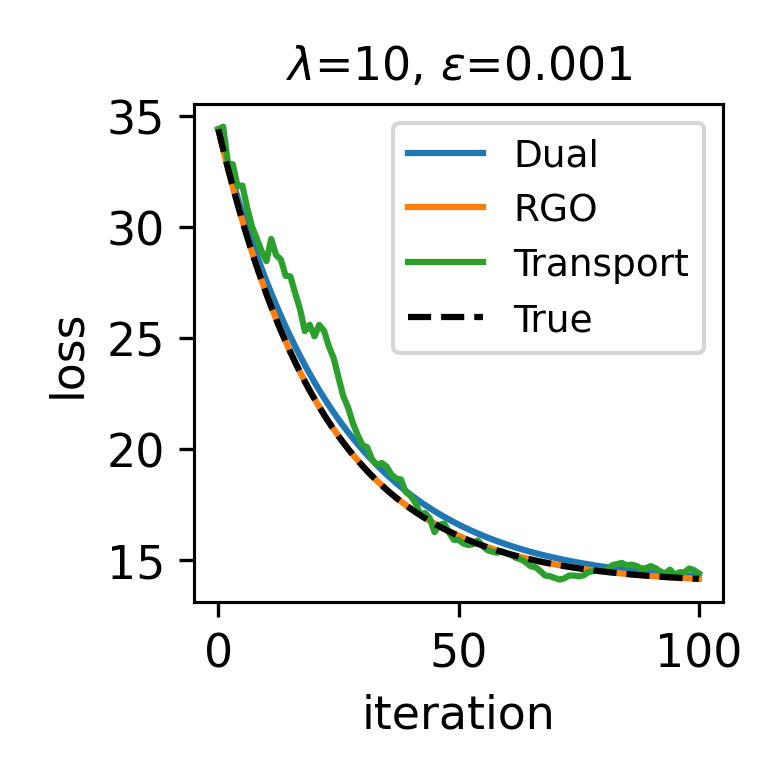
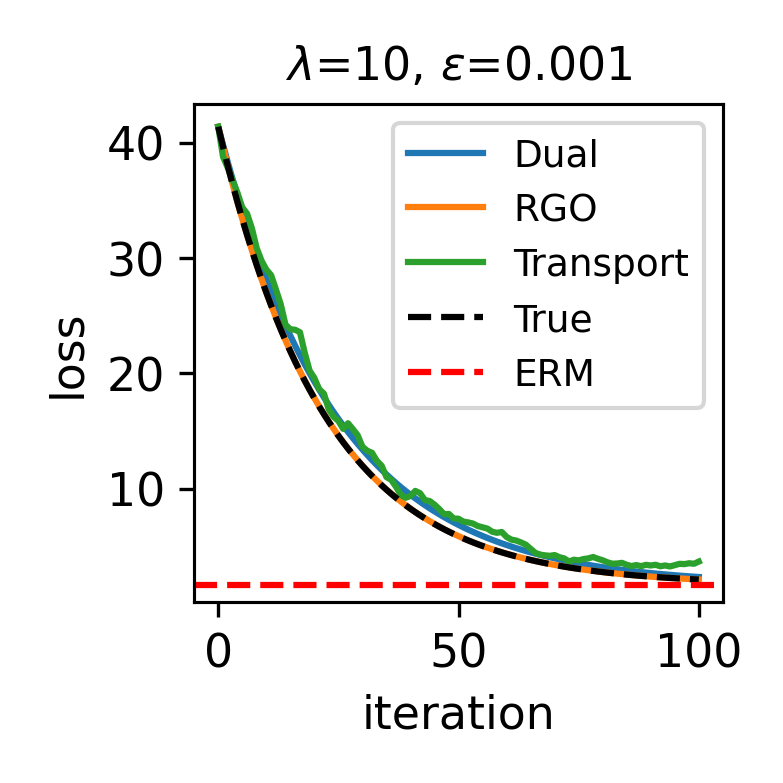
Add ERM to Gaussian plotting

diff --git a/.history/Gaussian/Gaussian_20250901154352.py b/.history/Gaussian/Gaussian_20250901154352.py
@@ -229,10 +229,7 @@ def optimize_theta(theta, z_centers, lam, epsilon, method, itr=100, lr=0.01, num
     return theta, his
 
 if __name__ == '__main__':
-    z_main = np.random.normal(4, 1, (10,2))  # Main cluster
-    outliers = np.array([[-1.0, -3.0], [-2.0, -2.0]])
-    #z_main = np.array([[4.0, 5.0],[5.0, 4.0], [4.0, 4.0], [5,5], [-2.0, -2.0]]) 
-    z_with_outliers = np.vstack((z_main, outliers))
+    z_main = np.array([[4.0, 5.0],[5.0, 4.0], [4.0, 4.0], [5,5], [-2.0, -2.0]]) 
     lambdas_to_test = [5, 10, 20]
     epsilons_to_test = [0.001, 0.01, 0.1]
     theta_to_test = np.array([[4.0, 4.0], [0.0, 0.0], [-1.0, -1.0]])  # Example theta for testing
@@ -261,7 +258,7 @@ if __name__ == '__main__':
             plt.plot(rgo_history, label='RGO')
             plt.plot(svgd_history, label='Transport')
             plt.plot(true_history, label='True', linestyle='--', color='black')
-            plt.axhline(y=np.sum((z_main-np.mean(z_main, axis=0))**2)/z_main.shape[0], color='r', linestyle='--', label='ERM')
+            plt.axhline(y=np.sum((z_main-np.mean(z_main, axis=0))**2), color='r', linestyle='--', label='ERM')
             plt.xlabel('iteration')
             plt.ylabel(r'loss') #(E$[\|z-\theta \|^2_2]$)
             plt.title(f'$\\lambda$={lam}, $\\epsilon$={eps}')

diff --git a/.history/Gaussian/Gaussian_20250901154459.py b/.history/Gaussian/Gaussian_20250901154459.py
@@ -229,10 +229,7 @@ def optimize_theta(theta, z_centers, lam, epsilon, method, itr=100, lr=0.01, num
     return theta, his
 
 if __name__ == '__main__':
-    z_main = np.random.normal(4, 1, (10,2))  # Main cluster
-    outliers = np.array([[-1.0, -3.0], [-2.0, -2.0]])
-    #z_main = np.array([[4.0, 5.0],[5.0, 4.0], [4.0, 4.0], [5,5], [-2.0, -2.0]]) 
-    z_with_outliers = np.vstack((z_main, outliers))
+    z_main = np.array([[4.0, 5.0],[5.0, 4.0], [4.0, 4.0], [5,5], [-2.0, -2.0]]) 
     lambdas_to_test = [5, 10, 20]
     epsilons_to_test = [0.001, 0.01, 0.1]
     theta_to_test = np.array([[4.0, 4.0], [0.0, 0.0], [-1.0, -1.0]])  # Example theta for testing
